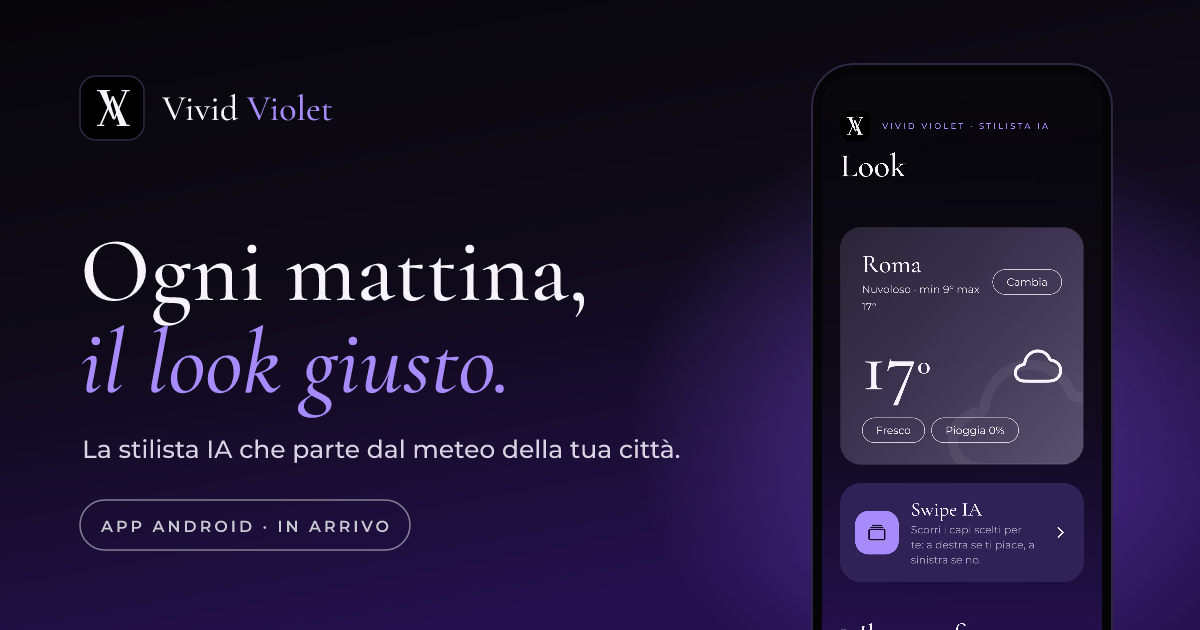
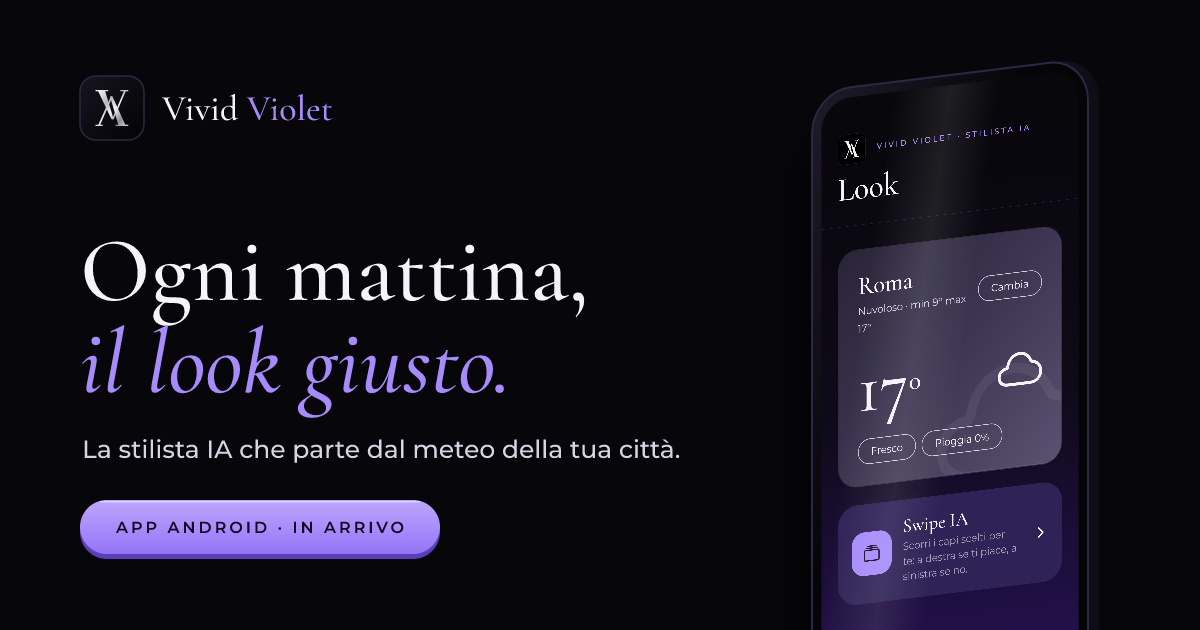
Anteprima di condivisione nello stile nuovo
- Sfondo nero pieno, telefono in prospettiva con spessore e riflesso,
  logo argento, "App Android · in arrivo" come pulsante viola in rilievo
- og:image con ?v=2, così WhatsApp e gli altri scaricano quella nuova

diff --git a/index.html b/index.html
@@ -15,7 +15,7 @@
 <meta property="og:url" content="https://vividviolet.it/">
 <meta property="og:title" content="Vivid Violet · Ogni mattina, il look giusto.">
 <meta property="og:description" content="La stilista IA che guarda il meteo della tua città, impara i tuoi gusti e confronta i prezzi dei negozi online. App Android in arrivo.">
-<meta property="og:image" content="https://vividviolet.it/anteprima.png">
+<meta property="og:image" content="https://vividviolet.it/anteprima.png?v=2">
 <meta property="og:image:type" content="image/png">
 <meta property="og:image:width" content="1200">
 <meta property="og:image:height" content="630">
